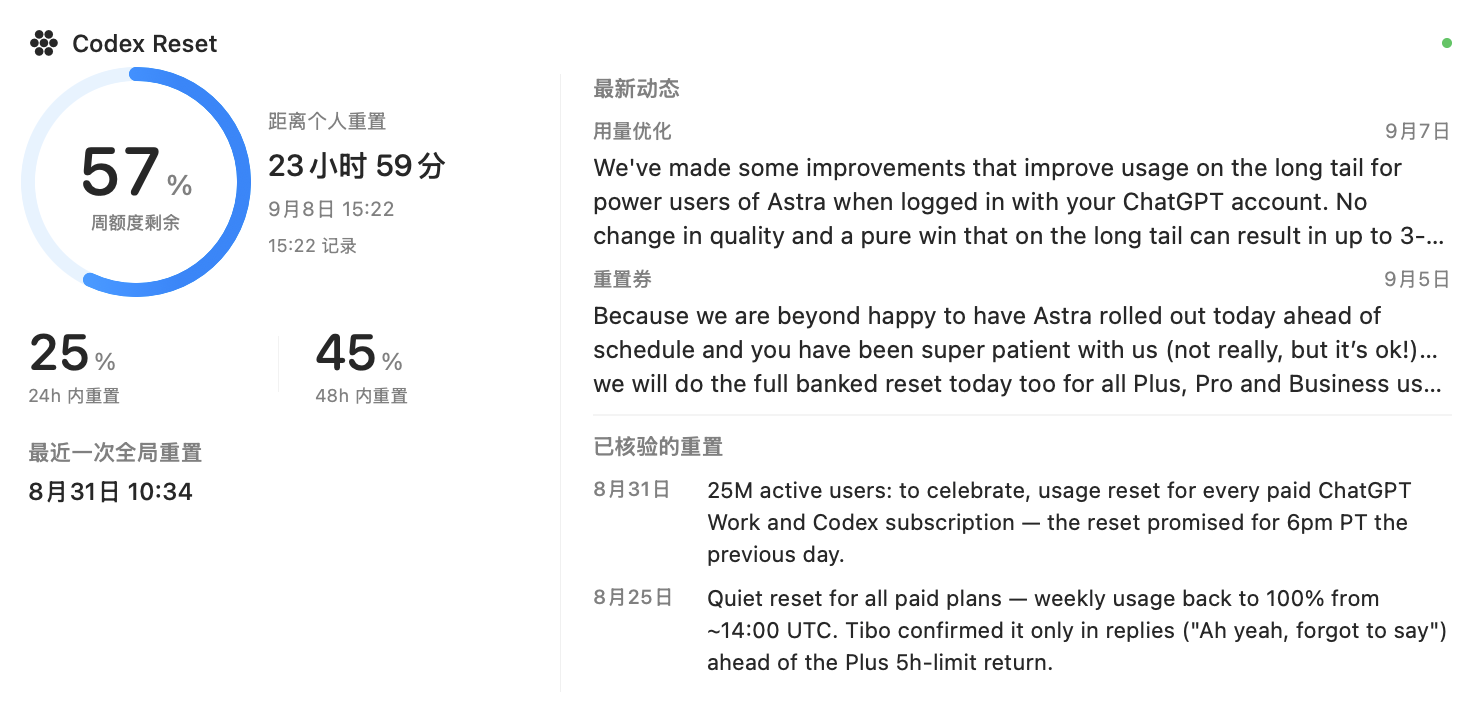
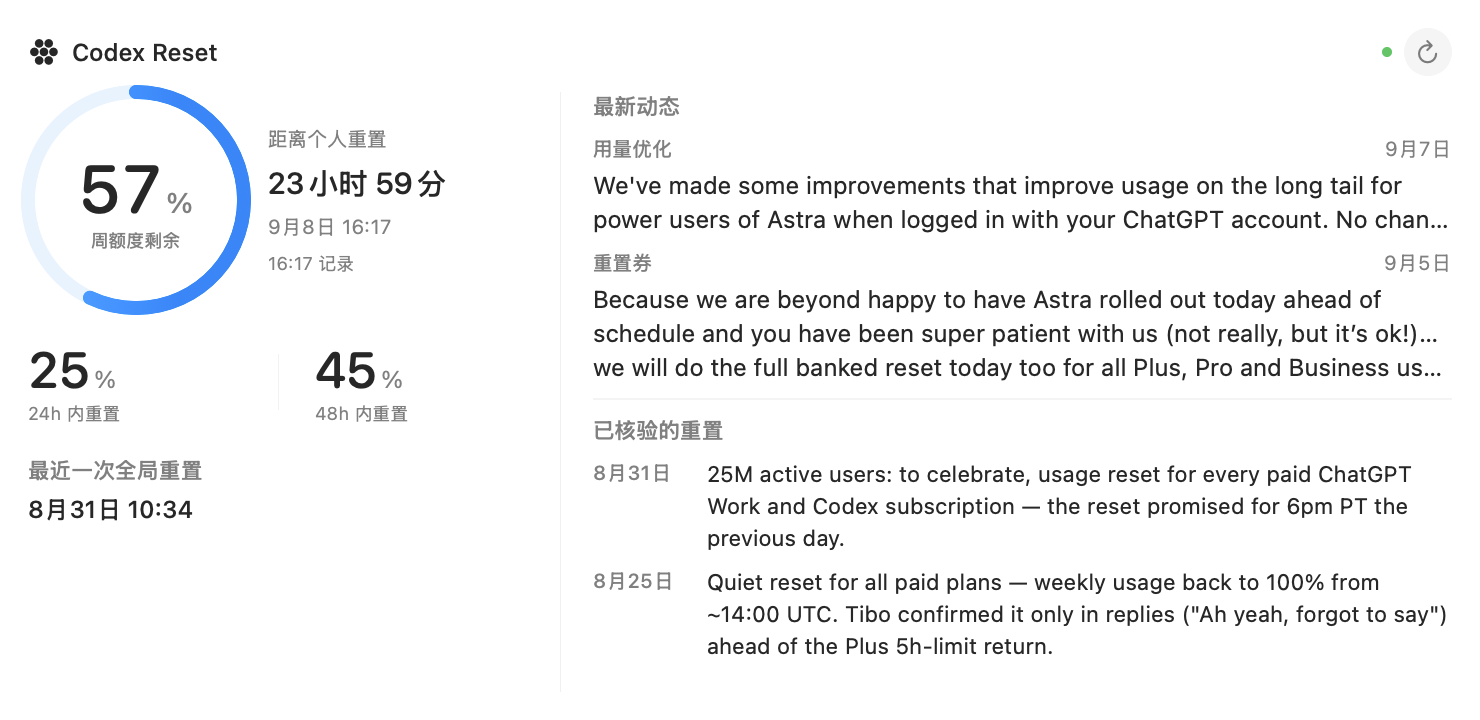
Add interactive widget refresh button

diff --git a/Widget/CodexResetWidget.swift b/Widget/CodexResetWidget.swift
@@ -1,5 +1,19 @@
 import SwiftUI
 import WidgetKit
+import AppIntents
+
+struct RefreshResetWidgetIntent: AppIntent {
+    static let title: LocalizedStringResource = "刷新 Codex Reset"
+    static let description = IntentDescription("刷新公告、历史和预测，并读取最近同步的个人用量。")
+    static let openAppWhenRun: Bool = false
+
+    func perform() async throws -> some IntentResult {
+        // WidgetKit requests a new timeline after a button intent completes.
+        // The provider fetches all three endpoints before supplying that timeline.
+        WidgetCenter.shared.reloadTimelines(ofKind: "CodexResetWidget")
+        return .result()
+    }
+}
 
 struct ResetEntry: TimelineEntry {
     let date: Date
@@ -45,6 +59,16 @@ struct ResetWidgetView: View {
                 Text("Codex Reset").font(.system(size: 12, weight: .medium))
                 Spacer()
                 Circle().fill(entry.snapshot.isStale(at: entry.date) ? Color.orange : Color.green).frame(width: 5, height: 5)
+                Button(intent: RefreshResetWidgetIntent()) {
+                    Image(systemName: "arrow.clockwise")
+                        .font(.system(size: 11, weight: .medium))
+                        .foregroundStyle(.secondary)
+                        .frame(width: 24, height: 24)
+                        .background(.primary.opacity(0.05), in: Circle())
+                }
+                .buttonStyle(.plain)
+                .accessibilityLabel("刷新公告、历史和预测")
+                .help("刷新公告、历史与预测；个人用量使用最近同步记录")
             }
             if extraLarge {
                 HStack(alignment: .top, spacing: 16) {

diff --git a/README.md b/README.md
@@ -53,6 +53,8 @@ App 和 Widget 共用 `$(DEVELOPMENT_TEAM).com.cherine.codex-reset` App Group。
 
 应用打开期间每 5 分钟刷新，可用 ⌘R 手动刷新。小组件申请每 15 分钟刷新，实际时间由 macOS 调度，不能保证准点。请求失败时保留最近可用内容并显示过期/失败状态，三个接口独立失败不会清空其他数据。
 
+大号和超大号右上角均有刷新按钮，直接触发新的小组件时间线，重新获取公告、历史和预测，无需打开主窗口。个人用量仍读取主应用最近同步的本地记录。
+
 ### 连接本机 Codex
 
 点击 **连接本机 Codex…**，在系统文件夹选择器中按 **⌘⇧G**，输入 `~/.codex/sessions`，选择“连接”。应用保存只读的 security-scoped bookmark，重新启动后继续读取；点击“断开”可清除连接和当前用量记录，恢复手动模式。自定义 `CODEX_HOME` 时选择对应目录下的 `sessions`。
